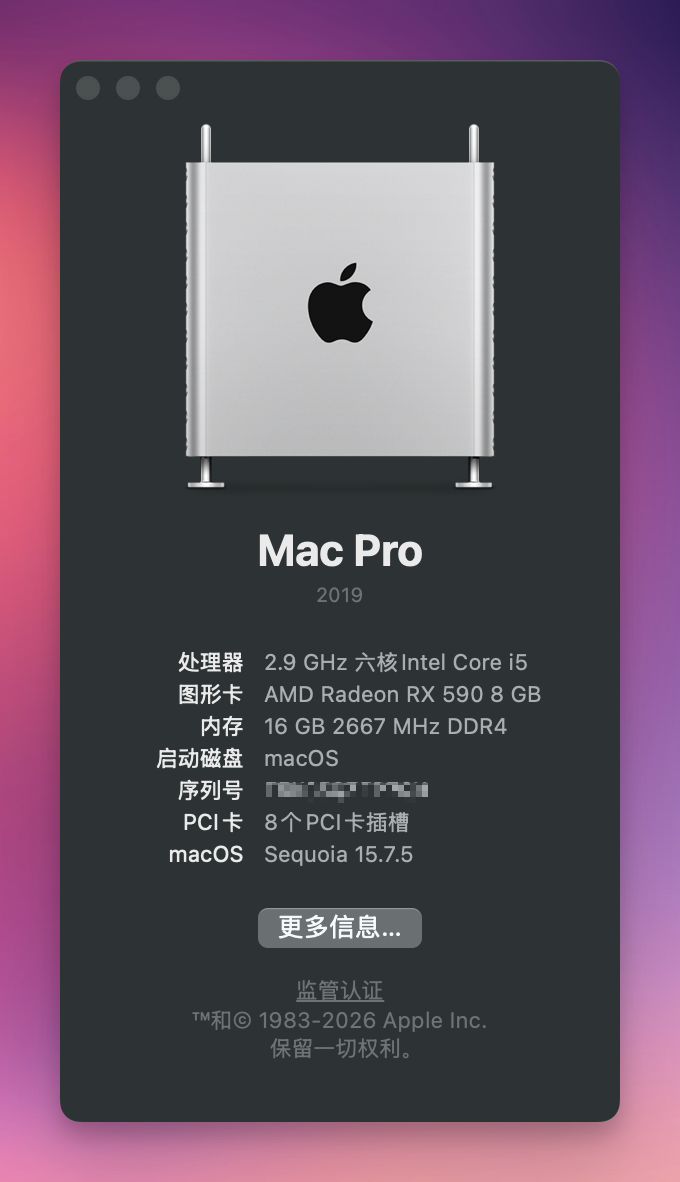
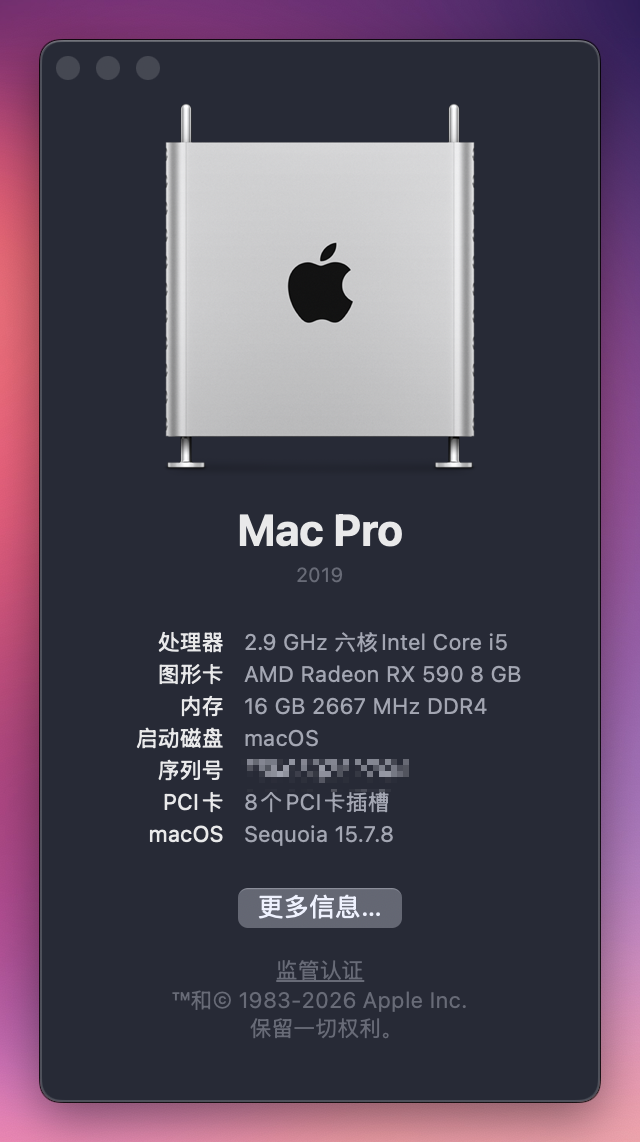
macOS 15.7.8

diff --git a/README.md b/README.md
@@ -1,6 +1,6 @@
 <!---  Update the following   -->
 
-[os_img]: https://img.shields.io/badge/macOS-15.7.5-6D67E4
+[os_img]: https://img.shields.io/badge/macOS-15.7.8-6D67E4
 [os_link]: https://developer.apple.com/documentation/macos-release-notes
 
 [oc_img]: https://img.shields.io/badge/OpenCore-1.0.5-519872
@@ -40,7 +40,7 @@
 
 | Version  |  Date      | Compatibility     | OC & OCLP      | Changes         |
 | :------: | :--------: | ----------------- | :------------: | --------------- |
-| 5.4      | 2025-07-30 | 15.5 ~ 15.7.5     | 1.0.5 & 2.4.0  | Change SMBIOS from **iMacPro1,1** to **MacPro7,1** |
+| 5.4      | 2025-07-30 | 15.5 ~ 15.7.8     | 1.0.5 & 2.4.0  | Change SMBIOS from **iMacPro1,1** to **MacPro7,1** |
 | 5.3      | 2025-04-01 | 15.4 ~ 15.4.1     | 1.0.4 & 2.3.0  |                 |
 | 5.2      | 2024-12-12 | 15.2 ~ 15.3.2     | 1.0.3 & 2.2.0  |                 |
 | 5.1      | 2024-10-30 | 15.1              | 1.0.2 & 2.0.2  |                 |
